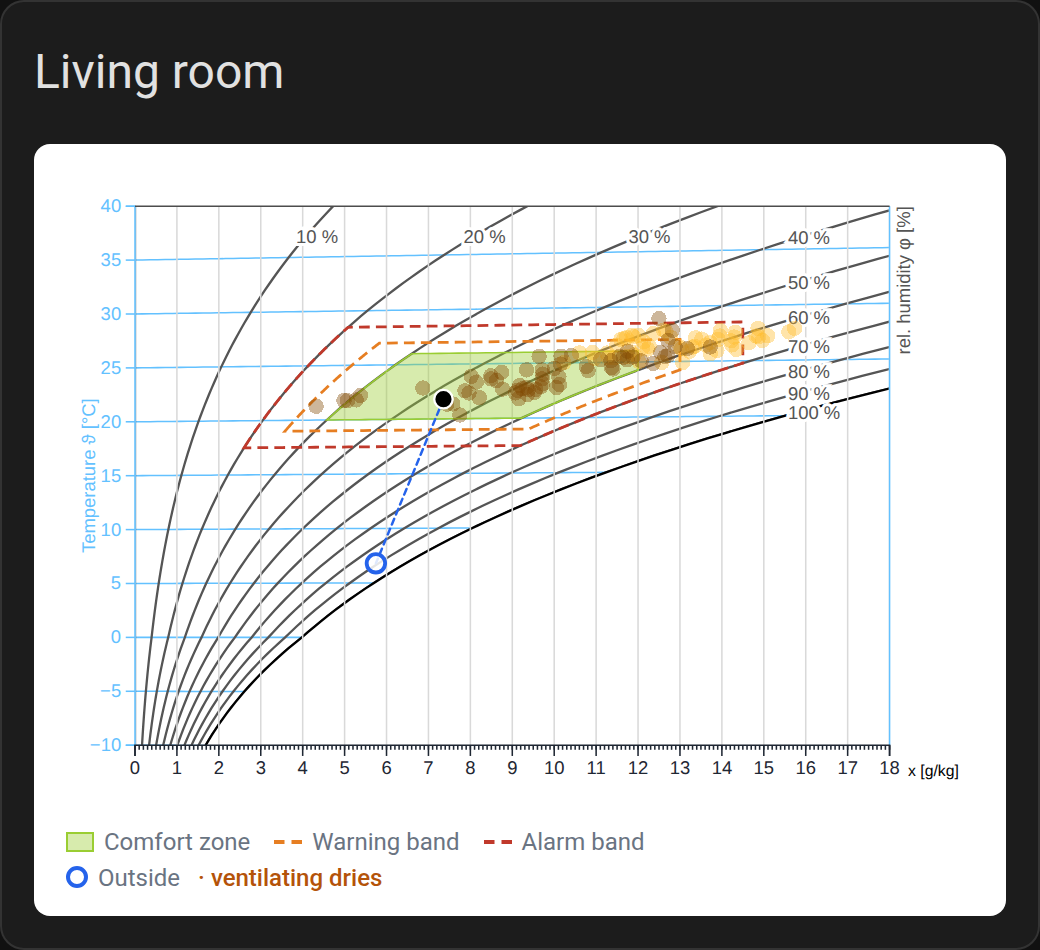
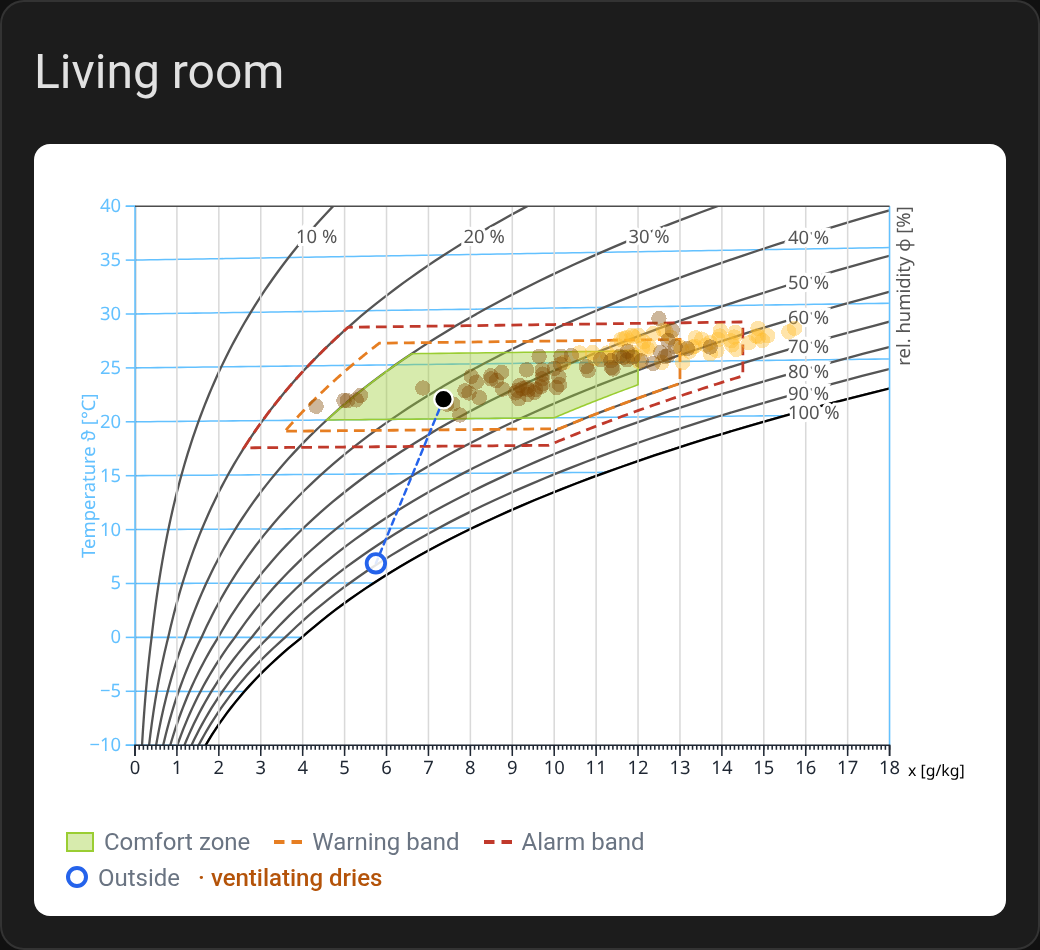
Comfort zone humidity 30–65 % (as in pyedautils)

diff --git a/dist/mollier-hx-card.js b/dist/mollier-hx-card.js
@@ -147,7 +147,7 @@
         height: 0;
         border-top: 2px dashed;
     }
-`;let rk=["season","age","chronological"],r$=["classical","glueck"],rA=[0,.018],rM=[-10,40],rz=[0,1],rC={temperature:!0,humidity:!0,absolute_humidity:!0,density:!1,enthalpy:!1},rE={temperature:"showTemperature",humidity:"showRelHumidity",absolute_humidity:"showAbsHumidity",density:"showDensity",enthalpy:"showEnthalpy"};function rT(t){let e={...rC};if(t&&"object"==typeof t)for(let r of Object.keys(rC))"boolean"==typeof t[r]&&(e[r]=t[r]);return e}function rN(t,e,r,i){let n=t[e];if(null==n||""===n)return i;if(!r.includes(n))throw Error(`${e} must be one of ${r.join(", ")} (got ${JSON.stringify(n)})`);return n}let rS="#2563eb",rP="black",rO={top:30,right:60,bottom:40,left:50},rj=0,rH={spring:"#2db27d",summer:"#febc2b",autumn:"#824b04",winter:"#365c8d"};function rR(t){return 11===t||t<=1?"winter":t<=4?"spring":t<=7?"summer":"autumn"}function rF(t,e,r){if(!Array.isArray(t)||2!==t.length||!t.every(Number.isFinite))return e;let[i,n]=t.map(Number);return i===n?e:[Math.min(i,n)*r,Math.max(i,n)*r]}let rL=t=>Array.isArray(t)&&2===t.length&&t.every(t=>null!==t&&""!==t&&Number.isFinite(Number(t))),rD=Object.keys(rC),rU={days:7,coloring:"season",pressure:101325,altitude:450,air_mode:"pressure",convention:"classical",x_min:0,x_max:18,y_min:-10,y_max:40,comfort_t_min:20,comfort_t_max:26,comfort_phi_min:30,comfort_phi_max:60,comfort_x_min:0,comfort_x_max:12,orange_dt:1,orange_dphi:5,orange_dx:1,red_dt:2.5,red_dphi:10,red_dx:2.5},rq=["type","temperature_entity","humidity_entity","title","days_to_show","coloring","convention","x_range","temperature_range","lines","altitude","pressure","comfort_zone","warning_bands","outdoor_temperature_entity","outdoor_humidity_entity","outdoor_weather_entity","outdoor_history","ventilation_line"],rB=t=>null!=t&&""!==t&&Number.isFinite(Number(t)),rV=t=>({type:"grid",schema:[{name:`${t}_dt`,selector:{number:{min:0,step:.5,mode:"box",unit_of_measurement:"K"}}},{name:`${t}_dphi`,selector:{number:{min:0,max:100,step:1,mode:"box",unit_of_measurement:"%"}}},{name:`${t}_dx`,selector:{number:{min:0,step:.5,mode:"box",unit_of_measurement:"g/kg"}}}]}),rI=[{type:"grid",schema:[{name:"comfort_t_min",selector:{number:{step:.5,mode:"box",unit_of_measurement:"°C"}}},{name:"comfort_t_max",selector:{number:{step:.5,mode:"box",unit_of_measurement:"°C"}}}]},{type:"grid",schema:[{name:"comfort_phi_min",selector:{number:{min:0,max:100,step:1,mode:"box",unit_of_measurement:"%"}}},{name:"comfort_phi_max",selector:{number:{min:0,max:100,step:1,mode:"box",unit_of_measurement:"%"}}}]},{name:"comfort_x_enabled",selector:{boolean:{}}}],rK=[{type:"grid",schema:[{name:"comfort_x_min",selector:{number:{min:0,step:.5,mode:"box",unit_of_measurement:"g/kg"}}},{name:"comfort_x_max",selector:{number:{min:0,step:.5,mode:"box",unit_of_measurement:"g/kg"}}}]}];customElements.define("mollier-hx-card",class extends t_{_hass;_drawn=!1;_fetchKey=null;_fetchSeq=0;_retryCount=0;_dailyData=[];_lang=null;_tip=null;static get properties(){return{_header:{state:!0},layout:{type:String,reflect:!0},_fixedHeight:{type:Boolean,reflect:!0,attribute:"fixed-height"},_tempEntity:{state:!0},_humEntity:{state:!0},_pressure:{state:!0},_days:{state:!0},_coloring:{state:!0},_comfortZone:{state:!0},_warningBands:{state:!0},_domainX:{state:!0},_domainY:{state:!0},_convention:{state:!0},_lines:{state:!0},_currentPoint:{state:!0},_outdoorPoint:{state:!0},_outdoorDays:{state:!0},_error:{state:!0},_missing:{state:!0}}}constructor(){super(),this._missing=[],this._clipId=`mollier-hx-clip-${++rj}`,this.addEventListener("click",()=>this._hideTip())}setConfig(t){if(!t||"object"!=typeof t)throw Error("Invalid configuration");if(!t.temperature_entity)throw Error("temperature_entity is required");if(!t.humidity_entity)throw Error("humidity_entity is required");let e=function(t,e=101325){let r=t.altitude;if(null!=r&&""!==r){let t=Number(r);if(!Number.isFinite(t)||t<-500||t>9e3)throw Error(`altitude must be in metres between -500 and 9000 (got ${r})`);return 101325*Math.pow(1-225577e-10*t,5.25588)}let i=t.pressure;if(null==i||""===i)return e;let n=Number(i);if(Number.isFinite(n)&&n>0&&n<2e3&&(n*=100),!Number.isFinite(n)||n<3e4||n>11e4)throw Error(`pressure must be in hPa (300–1100) or Pa (30000–110000) (got ${i})`);return n}(t,101325),r=function(t){let e=t.days_to_show;if(null==e||""===e)return 7;let r=Math.round(Number(e));if(!Number.isFinite(r)||r<1)throw Error(`days_to_show must be a whole number ≥ 1 (got ${e})`);return Math.min(r,3650)}(t),i=rN(t,"coloring",rk,"season"),n=rN(t,"convention",r$,"classical"),a=function(t){if(null==t||!1===t)return null;if("object"!=typeof t||Array.isArray(t))throw Error("comfort_zone must be an object with temperature: [min, max] (°C) and humidity: [min, max] (%)");let e=t.temperature,r=t.humidity,i=t.absolute_humidity;if(!rL(e))throw Error(`comfort_zone.temperature must be [min, max] in \xb0C (got ${JSON.stringify(e)})`);if(!rL(r))throw Error(`comfort_zone.humidity must be [min, max] in % (got ${JSON.stringify(r)})`);let n=null!=i;if(n&&!rL(i))throw Error(`comfort_zone.absolute_humidity must be [min, max] in g/kg (got ${JSON.stringify(i)})`);return{range_t:e.map(Number),range_phi:r.map(Number).map(t=>t/100),range_x:n?i.map(Number).map(t=>t/1e3):[...rz],hasX:n}}(t.comfort_zone);this._config=t,this._updateSizingMode();let o=t.title;this._header=""===o||null==o?Q:o,this._tempEntity=t.temperature_entity,this._humEntity=t.humidity_entity,this._pressure=e,this._days=r,this._coloring=i,this._comfortZone=a,this._fahrenheitHint=!!a&&Math.max(...a.range_t)>45,this._warningBands=function(t){if(!t)return null;let e=!0===t?{}:t,r={};for(let t of["orange","red"]){let i=e4[t],n=e[t]||{};r[t]={dt:Math.abs(e6(n.temperature,i.dt)),dphi:Math.abs(e6(n.humidity,i.dphi)),dx:Math.abs(e6(n.absolute_humidity,i.dx)),color:"string"==typeof n.color&&n.color?n.color:i.color,label:"string"==typeof n.label&&n.label?n.label:null}}return r.red.dt=Math.max(r.red.dt,r.orange.dt),r.red.dphi=Math.max(r.red.dphi,r.orange.dphi),r.red.dx=Math.max(r.red.dx,r.orange.dx),r}(t.warning_bands),this._domainX=rF(t.x_range,rA,.001),this._domainY=rF(t.temperature_range,rM,1),this._lines=rT(t.lines),this._convention=n,this._mollier=e1(this._convention),this._outT=t.outdoor_temperature_entity||null,this._outH=t.outdoor_humidity_entity||null,this._outW=t.outdoor_weather_entity||null,this._outHistory=!0===t.outdoor_history,this._ventLine=!1!==t.ventilation_line,this._hass&&(this._updateMissing(),this._maybeFetch(),this._updateCurrentPoint())}set hass(t){let e=!this._hass;this._hass=t;let r=rc(t);e||r===this._lang||this.requestUpdate(),this._lang=r,this._updateMissing(),e&&this._tempEntity&&this._maybeFetch(),this._updateCurrentPoint()}_updateMissing(){var t,e;if(!this._tempEntity)return;let r=(t=this._hass,e=[this._tempEntity,this._humEntity,this._outT,this._outH,this._outW],t?.states&&Object.keys(t.states).length?e.filter(e=>e&&!t.states[e]):[]);r.join("|")!==(this._missing||[]).join("|")&&(this._missing=r)}_updateOutdoorPoint(){let t=this._hass;if(!t||!this._mollier||!(this._outT||this._outW)){this._outdoorPoint=null;return}let e=0/0,r=0/0,i=null;if(this._outT&&this._outH&&(e=rb(t.states[this._outT]),r=rv(t.states[this._outH]),i="sensor"),(!Number.isFinite(e)||!Number.isFinite(r))&&this._outW){let n=t.states[this._outW]?.attributes||{};e=Number(n.temperature),"°F"===n.temperature_unit&&(e=(e-32)*5/9),r=Number(n.humidity)/100,i="weather"}if(!Number.isFinite(e)||!Number.isFinite(r)){this._outdoorPoint=null;return}let n=this._mollier.get_x_y(e,r,this._pressure);if(!Number.isFinite(n.x)||!Number.isFinite(n.y)){this._outdoorPoint=null;return}let a=this._outdoorPoint;a&&a.x===n.x&&a.y===n.y||(this._outdoorPoint={x:n.x,y:n.y,t:e,phi:r,source:i})}_updateCurrentPoint(){if(this._updateOutdoorPoint(),!this._hass||!this._tempEntity||!this._humEntity||!this._mollier){this._currentPoint=null;return}let t=this._hass.states[this._tempEntity],e=this._hass.states[this._humEntity];if(!t||!e){this._currentPoint=null;return}let r=rb(t),i=rv(e);if(!Number.isFinite(r)||!Number.isFinite(i)){this._currentPoint=null;return}let n=this._mollier.get_x_y(r,i,this._pressure);if(!Number.isFinite(n.x)||!Number.isFinite(n.y)){this._currentPoint=null;return}let a={x:n.x,y:n.y,t:r,phi:i},o=this._currentPoint;o&&o.x===a.x&&o.y===a.y||(this._currentPoint=a)}async _maybeFetch(t=!1){if(!this._hass||!this._tempEntity||!this._humEntity)return;let e=this._outHistory&&this._outT&&this._outH,r=`${this._tempEntity}|${this._humEntity}|${this._days}|${e?`${this._outT}|${this._outH}`:""}`,i=r!==this._fetchKey;if(!i&&!t)return;clearTimeout(this._retryTimer),this._retryTimer=void 0,i&&(this._dailyData=[],this._outdoorDays=[],this._error=void 0,this._retryCount=0),this._fetchKey=r;let n=++this._fetchSeq;try{let[t,r]=await Promise.all([rx(this._hass,this._tempEntity,this._humEntity,this._days),e?rx(this._hass,this._outT,this._outH,this._days).catch(()=>[]):[]]);if(n!==this._fetchSeq)return;this._dailyData=t,this._outdoorDays=r,this._error=t.length?void 0:{key:"card.no_statistics"},this._retryCount=0,this._retryPending=!1}catch(t){if(n!==this._fetchSeq)return;this._dailyData.length||(this._error={key:"card.fetch_failed",vars:{error:t&&t.message||t}}),this._scheduleRetry()}this.requestUpdate()}_scheduleRetry(){if(clearTimeout(this._retryTimer),this._retryTimer=void 0,!this.isConnected){this._retryPending=!0;return}let t=rg[Math.min(this._retryCount,rg.length-1)];this._retryCount++,this._retryTimer=setTimeout(()=>{this._retryTimer=void 0,this._maybeFetch(!0)},t)}connectedCallback(){super.connectedCallback(),clearInterval(this._refreshTimer),this._refreshTimer=setInterval(()=>this._maybeFetch(!0),36e5),(this._wasConnected||this._retryPending)&&(this._retryPending=!1,this._maybeFetch(!0)),this._wasConnected=!0}disconnectedCallback(){super.disconnectedCallback(),clearInterval(this._refreshTimer),this._refreshTimer=void 0,clearTimeout(this._retryTimer),this._retryTimer=void 0,this._hideTip()}_updateSizingMode(){let t=this._config?.grid_options?.rows;this._fixedHeight="panel"===this.layout||"grid"===this.layout&&"number"==typeof t}willUpdate(t){t.has("layout")&&this._updateSizingMode()}static styles=rw;render(){return this._config?X`
+`;let rk=["season","age","chronological"],r$=["classical","glueck"],rA=[0,.018],rM=[-10,40],rz=[0,1],rC={temperature:!0,humidity:!0,absolute_humidity:!0,density:!1,enthalpy:!1},rE={temperature:"showTemperature",humidity:"showRelHumidity",absolute_humidity:"showAbsHumidity",density:"showDensity",enthalpy:"showEnthalpy"};function rT(t){let e={...rC};if(t&&"object"==typeof t)for(let r of Object.keys(rC))"boolean"==typeof t[r]&&(e[r]=t[r]);return e}function rN(t,e,r,i){let n=t[e];if(null==n||""===n)return i;if(!r.includes(n))throw Error(`${e} must be one of ${r.join(", ")} (got ${JSON.stringify(n)})`);return n}let rS="#2563eb",rP="black",rO={top:30,right:60,bottom:40,left:50},rj=0,rH={spring:"#2db27d",summer:"#febc2b",autumn:"#824b04",winter:"#365c8d"};function rR(t){return 11===t||t<=1?"winter":t<=4?"spring":t<=7?"summer":"autumn"}function rF(t,e,r){if(!Array.isArray(t)||2!==t.length||!t.every(Number.isFinite))return e;let[i,n]=t.map(Number);return i===n?e:[Math.min(i,n)*r,Math.max(i,n)*r]}let rL=t=>Array.isArray(t)&&2===t.length&&t.every(t=>null!==t&&""!==t&&Number.isFinite(Number(t))),rD=Object.keys(rC),rU={days:7,coloring:"season",pressure:101325,altitude:450,air_mode:"pressure",convention:"classical",x_min:0,x_max:18,y_min:-10,y_max:40,comfort_t_min:20,comfort_t_max:26,comfort_phi_min:30,comfort_phi_max:65,comfort_x_min:0,comfort_x_max:12,orange_dt:1,orange_dphi:5,orange_dx:1,red_dt:2.5,red_dphi:10,red_dx:2.5},rq=["type","temperature_entity","humidity_entity","title","days_to_show","coloring","convention","x_range","temperature_range","lines","altitude","pressure","comfort_zone","warning_bands","outdoor_temperature_entity","outdoor_humidity_entity","outdoor_weather_entity","outdoor_history","ventilation_line"],rB=t=>null!=t&&""!==t&&Number.isFinite(Number(t)),rV=t=>({type:"grid",schema:[{name:`${t}_dt`,selector:{number:{min:0,step:.5,mode:"box",unit_of_measurement:"K"}}},{name:`${t}_dphi`,selector:{number:{min:0,max:100,step:1,mode:"box",unit_of_measurement:"%"}}},{name:`${t}_dx`,selector:{number:{min:0,step:.5,mode:"box",unit_of_measurement:"g/kg"}}}]}),rI=[{type:"grid",schema:[{name:"comfort_t_min",selector:{number:{step:.5,mode:"box",unit_of_measurement:"°C"}}},{name:"comfort_t_max",selector:{number:{step:.5,mode:"box",unit_of_measurement:"°C"}}}]},{type:"grid",schema:[{name:"comfort_phi_min",selector:{number:{min:0,max:100,step:1,mode:"box",unit_of_measurement:"%"}}},{name:"comfort_phi_max",selector:{number:{min:0,max:100,step:1,mode:"box",unit_of_measurement:"%"}}}]},{name:"comfort_x_enabled",selector:{boolean:{}}}],rK=[{type:"grid",schema:[{name:"comfort_x_min",selector:{number:{min:0,step:.5,mode:"box",unit_of_measurement:"g/kg"}}},{name:"comfort_x_max",selector:{number:{min:0,step:.5,mode:"box",unit_of_measurement:"g/kg"}}}]}];customElements.define("mollier-hx-card",class extends t_{_hass;_drawn=!1;_fetchKey=null;_fetchSeq=0;_retryCount=0;_dailyData=[];_lang=null;_tip=null;static get properties(){return{_header:{state:!0},layout:{type:String,reflect:!0},_fixedHeight:{type:Boolean,reflect:!0,attribute:"fixed-height"},_tempEntity:{state:!0},_humEntity:{state:!0},_pressure:{state:!0},_days:{state:!0},_coloring:{state:!0},_comfortZone:{state:!0},_warningBands:{state:!0},_domainX:{state:!0},_domainY:{state:!0},_convention:{state:!0},_lines:{state:!0},_currentPoint:{state:!0},_outdoorPoint:{state:!0},_outdoorDays:{state:!0},_error:{state:!0},_missing:{state:!0}}}constructor(){super(),this._missing=[],this._clipId=`mollier-hx-clip-${++rj}`,this.addEventListener("click",()=>this._hideTip())}setConfig(t){if(!t||"object"!=typeof t)throw Error("Invalid configuration");if(!t.temperature_entity)throw Error("temperature_entity is required");if(!t.humidity_entity)throw Error("humidity_entity is required");let e=function(t,e=101325){let r=t.altitude;if(null!=r&&""!==r){let t=Number(r);if(!Number.isFinite(t)||t<-500||t>9e3)throw Error(`altitude must be in metres between -500 and 9000 (got ${r})`);return 101325*Math.pow(1-225577e-10*t,5.25588)}let i=t.pressure;if(null==i||""===i)return e;let n=Number(i);if(Number.isFinite(n)&&n>0&&n<2e3&&(n*=100),!Number.isFinite(n)||n<3e4||n>11e4)throw Error(`pressure must be in hPa (300–1100) or Pa (30000–110000) (got ${i})`);return n}(t,101325),r=function(t){let e=t.days_to_show;if(null==e||""===e)return 7;let r=Math.round(Number(e));if(!Number.isFinite(r)||r<1)throw Error(`days_to_show must be a whole number ≥ 1 (got ${e})`);return Math.min(r,3650)}(t),i=rN(t,"coloring",rk,"season"),n=rN(t,"convention",r$,"classical"),a=function(t){if(null==t||!1===t)return null;if("object"!=typeof t||Array.isArray(t))throw Error("comfort_zone must be an object with temperature: [min, max] (°C) and humidity: [min, max] (%)");let e=t.temperature,r=t.humidity,i=t.absolute_humidity;if(!rL(e))throw Error(`comfort_zone.temperature must be [min, max] in \xb0C (got ${JSON.stringify(e)})`);if(!rL(r))throw Error(`comfort_zone.humidity must be [min, max] in % (got ${JSON.stringify(r)})`);let n=null!=i;if(n&&!rL(i))throw Error(`comfort_zone.absolute_humidity must be [min, max] in g/kg (got ${JSON.stringify(i)})`);return{range_t:e.map(Number),range_phi:r.map(Number).map(t=>t/100),range_x:n?i.map(Number).map(t=>t/1e3):[...rz],hasX:n}}(t.comfort_zone);this._config=t,this._updateSizingMode();let o=t.title;this._header=""===o||null==o?Q:o,this._tempEntity=t.temperature_entity,this._humEntity=t.humidity_entity,this._pressure=e,this._days=r,this._coloring=i,this._comfortZone=a,this._fahrenheitHint=!!a&&Math.max(...a.range_t)>45,this._warningBands=function(t){if(!t)return null;let e=!0===t?{}:t,r={};for(let t of["orange","red"]){let i=e4[t],n=e[t]||{};r[t]={dt:Math.abs(e6(n.temperature,i.dt)),dphi:Math.abs(e6(n.humidity,i.dphi)),dx:Math.abs(e6(n.absolute_humidity,i.dx)),color:"string"==typeof n.color&&n.color?n.color:i.color,label:"string"==typeof n.label&&n.label?n.label:null}}return r.red.dt=Math.max(r.red.dt,r.orange.dt),r.red.dphi=Math.max(r.red.dphi,r.orange.dphi),r.red.dx=Math.max(r.red.dx,r.orange.dx),r}(t.warning_bands),this._domainX=rF(t.x_range,rA,.001),this._domainY=rF(t.temperature_range,rM,1),this._lines=rT(t.lines),this._convention=n,this._mollier=e1(this._convention),this._outT=t.outdoor_temperature_entity||null,this._outH=t.outdoor_humidity_entity||null,this._outW=t.outdoor_weather_entity||null,this._outHistory=!0===t.outdoor_history,this._ventLine=!1!==t.ventilation_line,this._hass&&(this._updateMissing(),this._maybeFetch(),this._updateCurrentPoint())}set hass(t){let e=!this._hass;this._hass=t;let r=rc(t);e||r===this._lang||this.requestUpdate(),this._lang=r,this._updateMissing(),e&&this._tempEntity&&this._maybeFetch(),this._updateCurrentPoint()}_updateMissing(){var t,e;if(!this._tempEntity)return;let r=(t=this._hass,e=[this._tempEntity,this._humEntity,this._outT,this._outH,this._outW],t?.states&&Object.keys(t.states).length?e.filter(e=>e&&!t.states[e]):[]);r.join("|")!==(this._missing||[]).join("|")&&(this._missing=r)}_updateOutdoorPoint(){let t=this._hass;if(!t||!this._mollier||!(this._outT||this._outW)){this._outdoorPoint=null;return}let e=0/0,r=0/0,i=null;if(this._outT&&this._outH&&(e=rb(t.states[this._outT]),r=rv(t.states[this._outH]),i="sensor"),(!Number.isFinite(e)||!Number.isFinite(r))&&this._outW){let n=t.states[this._outW]?.attributes||{};e=Number(n.temperature),"°F"===n.temperature_unit&&(e=(e-32)*5/9),r=Number(n.humidity)/100,i="weather"}if(!Number.isFinite(e)||!Number.isFinite(r)){this._outdoorPoint=null;return}let n=this._mollier.get_x_y(e,r,this._pressure);if(!Number.isFinite(n.x)||!Number.isFinite(n.y)){this._outdoorPoint=null;return}let a=this._outdoorPoint;a&&a.x===n.x&&a.y===n.y||(this._outdoorPoint={x:n.x,y:n.y,t:e,phi:r,source:i})}_updateCurrentPoint(){if(this._updateOutdoorPoint(),!this._hass||!this._tempEntity||!this._humEntity||!this._mollier){this._currentPoint=null;return}let t=this._hass.states[this._tempEntity],e=this._hass.states[this._humEntity];if(!t||!e){this._currentPoint=null;return}let r=rb(t),i=rv(e);if(!Number.isFinite(r)||!Number.isFinite(i)){this._currentPoint=null;return}let n=this._mollier.get_x_y(r,i,this._pressure);if(!Number.isFinite(n.x)||!Number.isFinite(n.y)){this._currentPoint=null;return}let a={x:n.x,y:n.y,t:r,phi:i},o=this._currentPoint;o&&o.x===a.x&&o.y===a.y||(this._currentPoint=a)}async _maybeFetch(t=!1){if(!this._hass||!this._tempEntity||!this._humEntity)return;let e=this._outHistory&&this._outT&&this._outH,r=`${this._tempEntity}|${this._humEntity}|${this._days}|${e?`${this._outT}|${this._outH}`:""}`,i=r!==this._fetchKey;if(!i&&!t)return;clearTimeout(this._retryTimer),this._retryTimer=void 0,i&&(this._dailyData=[],this._outdoorDays=[],this._error=void 0,this._retryCount=0),this._fetchKey=r;let n=++this._fetchSeq;try{let[t,r]=await Promise.all([rx(this._hass,this._tempEntity,this._humEntity,this._days),e?rx(this._hass,this._outT,this._outH,this._days).catch(()=>[]):[]]);if(n!==this._fetchSeq)return;this._dailyData=t,this._outdoorDays=r,this._error=t.length?void 0:{key:"card.no_statistics"},this._retryCount=0,this._retryPending=!1}catch(t){if(n!==this._fetchSeq)return;this._dailyData.length||(this._error={key:"card.fetch_failed",vars:{error:t&&t.message||t}}),this._scheduleRetry()}this.requestUpdate()}_scheduleRetry(){if(clearTimeout(this._retryTimer),this._retryTimer=void 0,!this.isConnected){this._retryPending=!0;return}let t=rg[Math.min(this._retryCount,rg.length-1)];this._retryCount++,this._retryTimer=setTimeout(()=>{this._retryTimer=void 0,this._maybeFetch(!0)},t)}connectedCallback(){super.connectedCallback(),clearInterval(this._refreshTimer),this._refreshTimer=setInterval(()=>this._maybeFetch(!0),36e5),(this._wasConnected||this._retryPending)&&(this._retryPending=!1,this._maybeFetch(!0)),this._wasConnected=!0}disconnectedCallback(){super.disconnectedCallback(),clearInterval(this._refreshTimer),this._refreshTimer=void 0,clearTimeout(this._retryTimer),this._retryTimer=void 0,this._hideTip()}_updateSizingMode(){let t=this._config?.grid_options?.rows;this._fixedHeight="panel"===this.layout||"grid"===this.layout&&"number"==typeof t}willUpdate(t){t.has("layout")&&this._updateSizingMode()}static styles=rw;render(){return this._config?X`
             <ha-card header="${this._header}">
                 <div class="card-content">
                     ${this._renderMessages()}

diff --git a/src/editor.js b/src/editor.js
@@ -23,7 +23,7 @@ const DEFAULTS = {
     comfort_t_min: 20,
     comfort_t_max: 26,
     comfort_phi_min: 30,
-    comfort_phi_max: 60,
+    comfort_phi_max: 65,
     comfort_x_min: 0,
     comfort_x_max: 12,
     // Warning-band offsets around the comfort zone (pyedautils defaults).

diff --git a/README.md b/README.md
@@ -118,7 +118,7 @@ days_to_show: 120
 altitude: 450
 comfort_zone:
   temperature: [20, 26]
-  humidity: [30, 60]
+  humidity: [30, 65]
   absolute_humidity: [0, 12]   # optional
 warning_bands: true
 lines:
@@ -158,7 +158,7 @@ Units: all temperatures in the card config (comfort zone, `temperature_range`) a
 ```yaml
 comfort_zone:
   temperature: [20, 26]        # °C (always °C, also with °F sensors)
-  humidity: [30, 60]           # % relative humidity
+  humidity: [30, 65]           # % relative humidity
   absolute_humidity: [0, 12]   # g/kg, optional
 ```
 

diff --git a/CHANGELOG.md b/CHANGELOG.md
@@ -4,6 +4,10 @@ All notable changes to this card. The format follows [Keep a Changelog](https://
 
 ## [Unreleased]
 
+### Changed
+
+- Editor suggestion for a new comfort zone: relative humidity 30–65 % (was 30–60 %), as in pyedautils.
+
 ### Removed
 
 - Aliases for the pre-1.0 option names. Use the names from the README (`title`, `days_to_show`, `x_range`, `temperature_range`, `lines.humidity`).
